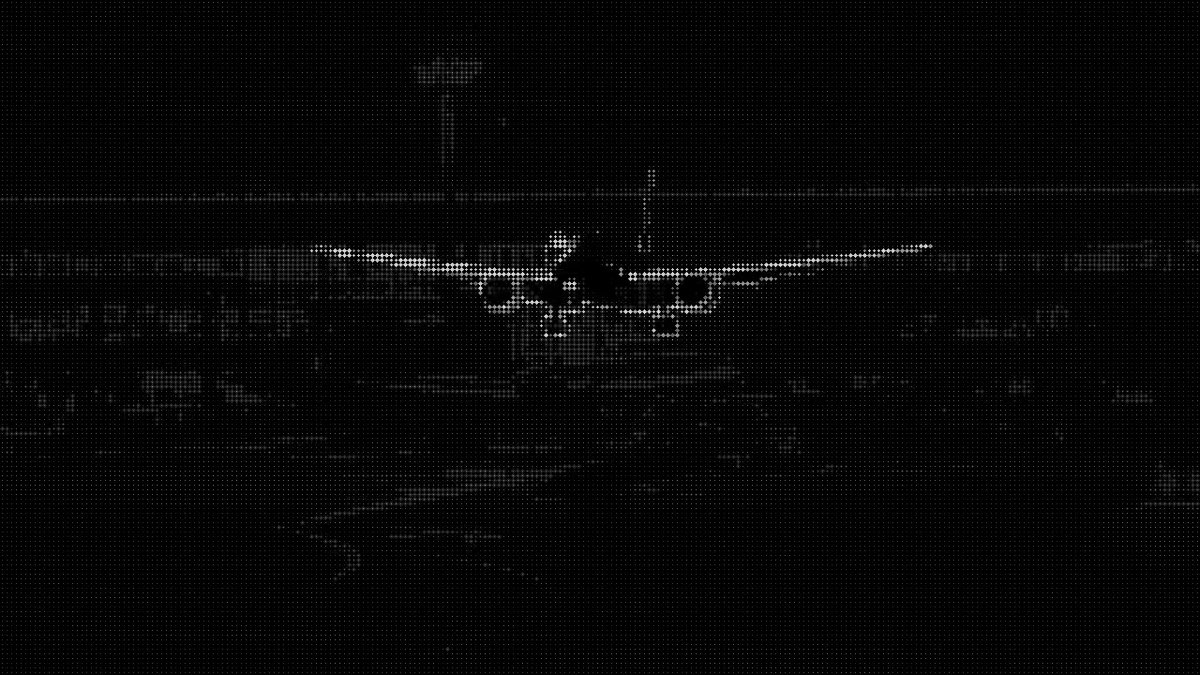
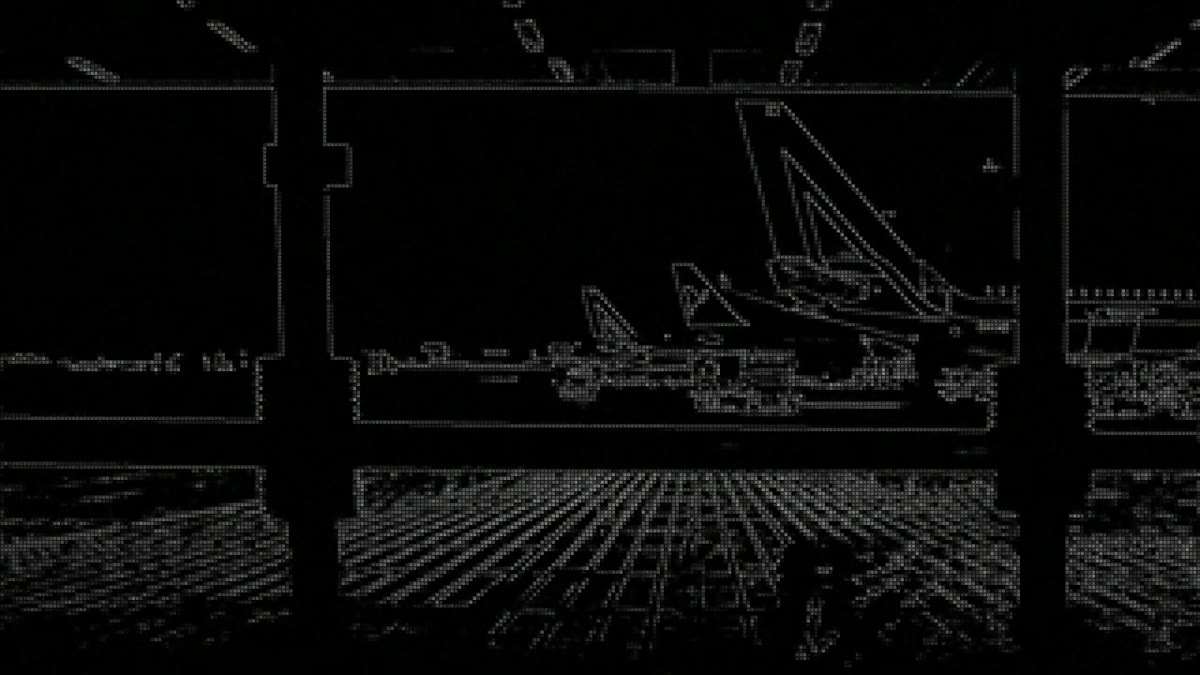
Refresh brand dither video

diff --git a/src/config/changelog.ts b/src/config/changelog.ts
@@ -40,9 +40,31 @@ export function resolveChangelogText(
 
 export const CHANGELOG_INITIAL_LIMIT = 20;
 export const CHANGELOG_PAGE_SIZE = 20;
-export const CHANGELOG_TOTAL_COUNT = 90;
+export const CHANGELOG_TOTAL_COUNT = 91;
 
 export const CHANGELOG_RECENT: ChangelogEntry[] = [
+  {
+    version: "v2.19.2",
+    kind: "patch",
+    title: {
+      en: "Brand video refresh",
+      zh: "品牌视频刷新",
+    },
+    summary: {
+      en: "The static-page brand background has a regenerated grayscale dither loop from Mixkit stock video, with a smaller 15fps encode for lighter playback.",
+      zh: "静态页品牌背景已用 Mixkit 库存视频重新生成灰度点阵循环，并改为更轻的 15fps 编码。",
+    },
+    highlights: [
+      {
+        en: "Home, About, Mechanism, and Changelog now share the refreshed airport-and-aircraft dither video and matching poster frame",
+        zh: "首页、关于、机制与更新日志现在共用新的机场与飞机点阵视频和同步 poster 帧",
+      },
+      {
+        en: "The loop is preprocessed into H.264 with no audio, lower frame rate, and a much smaller file while keeping the existing cached asset path",
+        zh: "循环视频预处理为无音频 H.264、降低帧率并显著缩小文件，同时保留原有缓存资源路径",
+      },
+    ],
+  },
   {
     version: "v2.19.1",
     kind: "feat",
@@ -482,28 +504,6 @@ export const CHANGELOG_RECENT: ChangelogEntry[] = [
       {
         en: "The layout profile is resampled after orientation, focus, visibility, and page restore events so safe-area edges settle correctly",
         zh: "布局 profile 会在旋转、聚焦、可见性变化和页面恢复后重新采样，让 safe-area 方向稳定回正",
-      },
-    ],
-  },
-  {
-    version: "v2.15.2",
-    kind: "patch",
-    title: {
-      en: "Home landscape safe area",
-      zh: "主页横屏安全区",
-    },
-    summary: {
-      en: "Home and map pages now keep the sidebar layout consistent on landscape phones with left or right safe-area obstructions.",
-      zh: "主页和地图页现在会在手机横屏左右安全区遮挡下保持一致的侧栏布局。",
-    },
-    highlights: [
-      {
-        en: "The home sidebar offsets from the active landscape safe-area edge instead of staying pinned to the physical screen edge",
-        zh: "主页侧栏横屏时会避开当前 safe-area 边缘，不再贴住物理屏幕边",
-      },
-      {
-        en: "Landscape mobile airport views stay in desktop-sidebar mode instead of occasionally falling into the mobile map-only toolbar state",
-        zh: "移动设备横屏机场页会保持桌面侧栏布局，不再偶发落入只有地图和移动工具栏的状态",
       },
     ],
   },

diff --git a/src/config/changelogHistory.ts b/src/config/changelogHistory.ts
@@ -384,6 +384,28 @@ export const CHANGELOG_HISTORY_ZH_COPY: Record<string, ChangelogLocalizedRelease
 
 export const CHANGELOG_HISTORY: ChangelogEntry[] = [
   {
+    version: "v2.15.2",
+    kind: "patch",
+    title: {
+      en: "Home landscape safe area",
+      zh: "主页横屏安全区",
+    },
+    summary: {
+      en: "Home and map pages now keep the sidebar layout consistent on landscape phones with left or right safe-area obstructions.",
+      zh: "主页和地图页现在会在手机横屏左右安全区遮挡下保持一致的侧栏布局。",
+    },
+    highlights: [
+      {
+        en: "The home sidebar offsets from the active landscape safe-area edge instead of staying pinned to the physical screen edge",
+        zh: "主页侧栏横屏时会避开当前 safe-area 边缘，不再贴住物理屏幕边",
+      },
+      {
+        en: "Landscape mobile airport views stay in desktop-sidebar mode instead of occasionally falling into the mobile map-only toolbar state",
+        zh: "移动设备横屏机场页会保持桌面侧栏布局，不再偶发落入只有地图和移动工具栏的状态",
+      },
+    ],
+  },
+  {
     version: "v2.15.1",
     kind: "patch",
     title: {

diff --git a/src/config/about.ts b/src/config/about.ts
@@ -138,12 +138,12 @@ export const ABOUT_DATA_SOURCES = [
   {
     glyph: "VIDEO",
     titleKey: "about.sources.brandingVideo.title",
-    title: "Bilibili Aircraft Footage",
+    title: "Mixkit Stock Video",
     descriptionKey: "about.sources.brandingVideo.description",
     description:
-      "Aircraft branding footage credit: 【视频分享】素材分享——飞机起飞降落 by 霸波奔bo奔波霸.",
-    host: "bilibili.com",
-    href: "https://www.bilibili.com/video/BV1Aw4m1d7HJ/",
+      "Aircraft branding footage processed from Mixkit airport and airplane stock video clips under the Mixkit Stock Video Free License.",
+    host: "mixkit.co",
+    href: "https://mixkit.co/free-stock-video/",
   },
 ];
 

diff --git a/src/config/i18n/en.ts b/src/config/i18n/en.ts
@@ -103,9 +103,9 @@ const en = {
         description: "Light and dark base map tiles plus reference labels.",
       },
       brandingVideo: {
-        title: "Bilibili Aircraft Footage",
+        title: "Mixkit Stock Video",
         description:
-          "Aircraft branding footage credit: 【视频分享】素材分享——飞机起飞降落 by 霸波奔bo奔波霸.",
+          "Aircraft branding footage processed from Mixkit airport and airplane stock video clips under the Mixkit Stock Video Free License.",
       },
     },
   },

diff --git a/src/config/i18n/zh-CN.ts b/src/config/i18n/zh-CN.ts
@@ -97,9 +97,9 @@ const zhCN = {
         description: "亮色和暗色底图瓦片及参考标签。",
       },
       brandingVideo: {
-        title: "B站飞机视频素材",
+        title: "Mixkit 库存视频",
         description:
-          "品牌视频飞机素材署名：【视频分享】素材分享——飞机起飞降落，UP 主：霸波奔bo奔波霸。",
+          "品牌点阵视频由 Mixkit 机场与飞机免费库存视频素材二次处理生成，遵循 Mixkit Stock Video Free License。",
       },
     },
   },